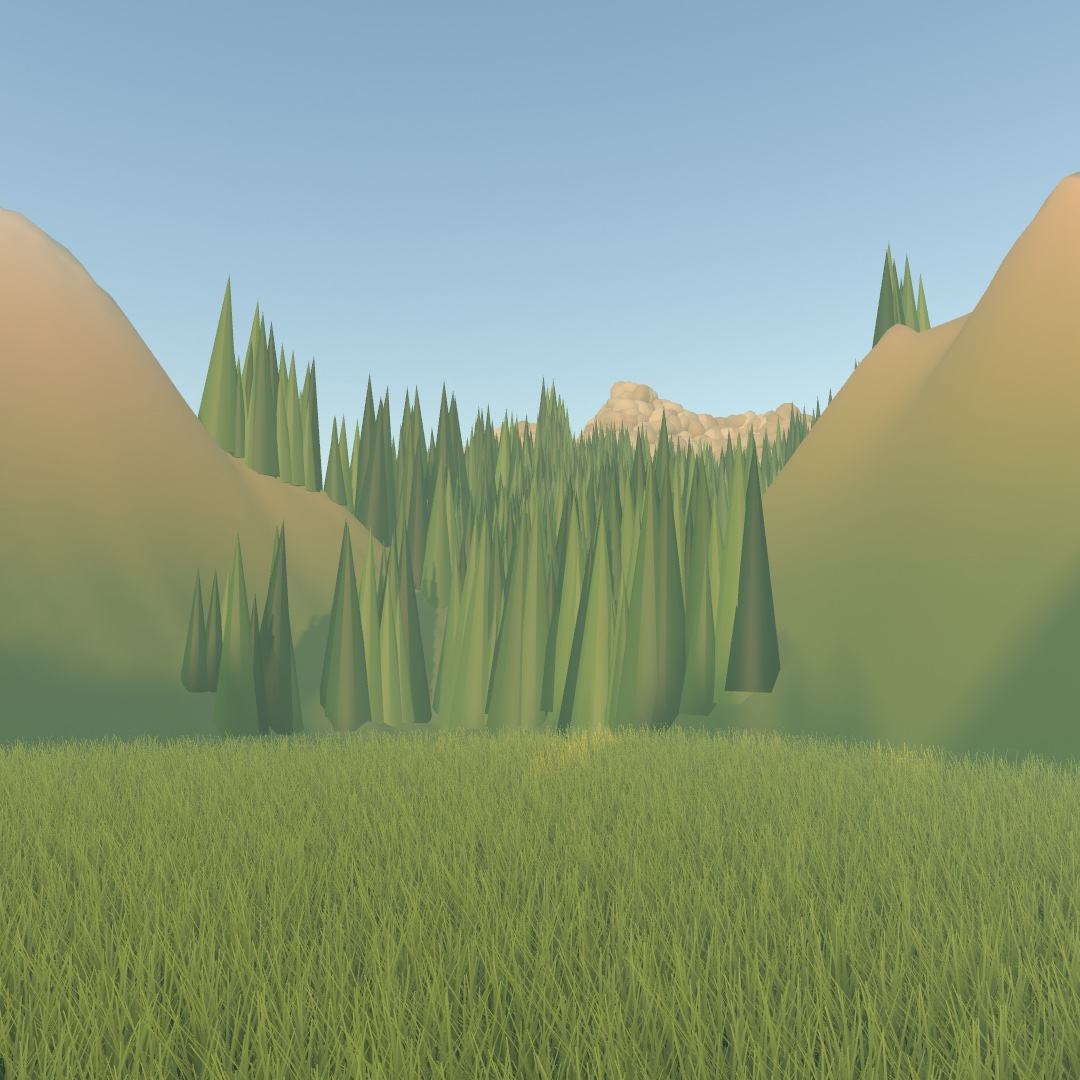
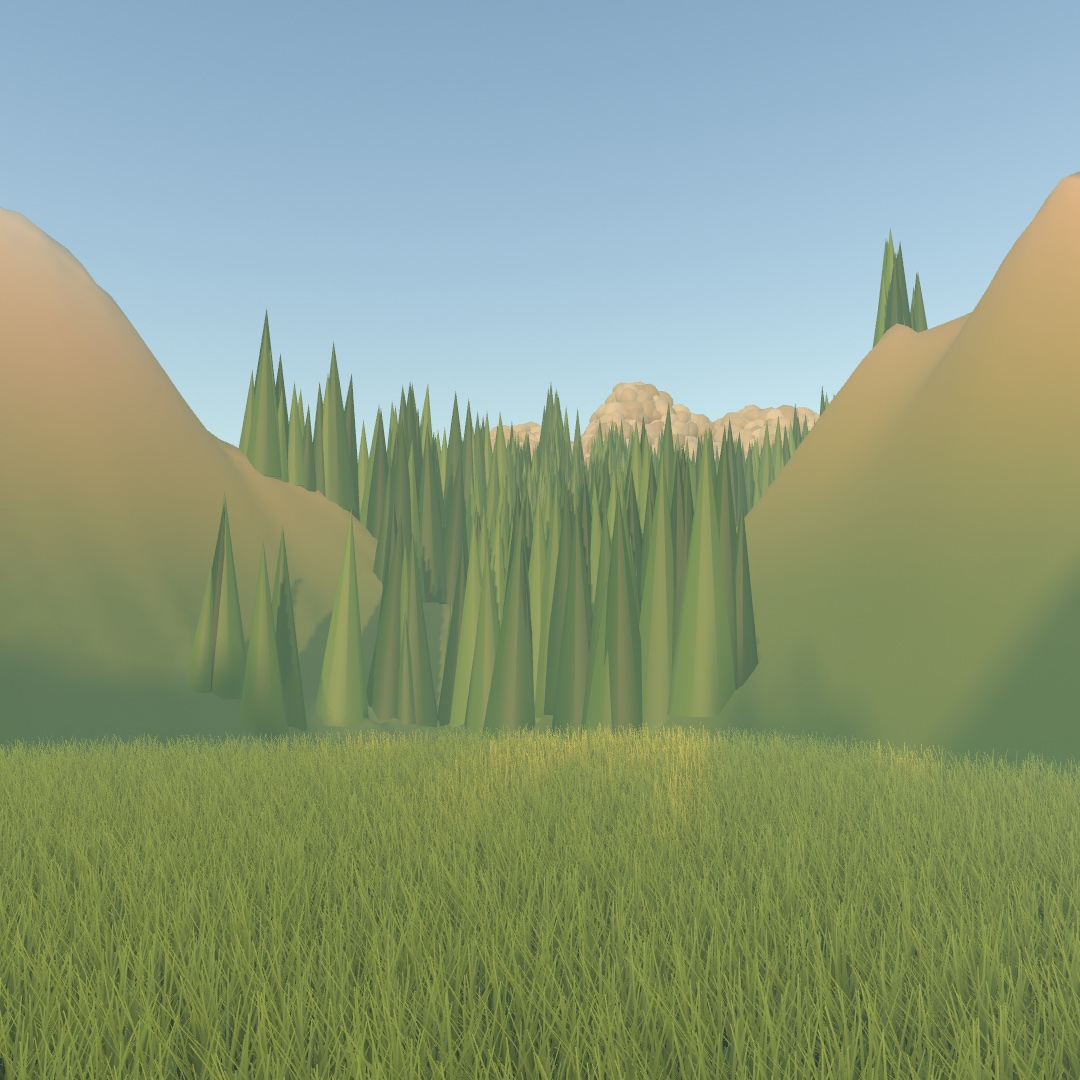
The Guide's Mac work for Chapters 25 to 28. The triangles-and-normals figure is rendered and stands in Chapter 25 where its note waited: one coarse icosphere three times on a gray floor, lit in coral, as its net of pale triangles, and lit again with a short yellow tube standing out of every corner a
Claude-Session: https://claude.ai/code/session_01WqLtBAH3GLezrn1E1FY2W7

Changed region(s): [[0.1528, 0.275, 0.7639, 0.7333], [0.7944, 0.2139, 0.8861, 0.3056]]

diff --git a/Guide/Figures/27-Landscapes/Valley.swift b/Guide/Figures/27-Landscapes/Valley.swift
@@ -137,7 +137,7 @@ final class Valley: Sketch {
         // Spots spread by area over the land's own surface, then kept or passed
         // over by what the ground does there. A spot's normal says how steep it is.
         // At this density the pines overlap anyway, so the cheap random scatter
-        // serves, where blue noise would cost several times as much.
+        // serves, where blue noise would take far longer.
         for spot in surfacePoints(on: land, count: 400_000, scatter: .random) {
             let p = spot.position
             // Nothing grows on the flood plain, and nothing grows on bare rock.

diff --git a/Guide/27-Landscapes.md b/Guide/27-Landscapes.md
@@ -238,7 +238,7 @@ final class Valley: Sketch {
 
 ```
 
-The second part reads the field back, which is the step that turns a landscape into a way of placing things. `findAClearing` walks a coarse grid and scores each spot by how much level ground surrounds it. Where the camera stands is something the terrain decides. `findARidge` then picks the highest ground in the middle distance, on the side away from the sun. So the shot faces lit land rather than a silhouette. `dressTheLand` scatters four hundred thousand spots over the land mesh with `surfacePoints`, by area, and passes `scatter: .random`. At this density the pines overlap into one canopy anyway, and the even spacing would cost several times as much. It keeps the spots that landed somewhere a pine or a boulder belongs, and a spot's normal says how steep the ground is there. Nothing grows on the flood plain or within 42 units of the clearing. Pines take the gentle mid slopes, and stones collect where it is steep.
+The second part reads the field back, which is the step that turns a landscape into a way of placing things. `findAClearing` walks a coarse grid and scores each spot by how much level ground surrounds it. Where the camera stands is something the terrain decides. `findARidge` then picks the highest ground in the middle distance, on the side away from the sun. So the shot faces lit land rather than a silhouette. `dressTheLand` scatters four hundred thousand spots over the land mesh with `surfacePoints`, by area, and passes `scatter: .random`. At this density the pines overlap into one canopy anyway, and the even spacing would take far longer to work out. It keeps the spots that landed somewhere a pine or a boulder belongs, and a spot's normal says how steep the ground is there. Nothing grows on the flood plain or within 42 units of the clearing. Pines take the gentle mid slopes, and stones collect where it is steep.
 
 The trees near the camera are kept in a list of their own, because they are the ones the wind has to move. They come from darts thrown in a disc around the clearing, since they have to stand near the camera rather than all over the land. They skip steep ground too. The square root of `random(1)` as the distance spreads the darts evenly over the disc. A plain `random` would crowd them at its center.
 
@@ -294,7 +294,7 @@ The trees near the camera are kept in a list of their own, because they are the 
         // Spots spread by area over the land's own surface, then kept or passed
         // over by what the ground does there. A spot's normal says how steep it is.
         // At this density the pines overlap anyway, so the cheap random scatter
-        // serves, where blue noise would cost several times as much.
+        // serves, where blue noise would take far longer.
         for spot in surfacePoints(on: land, count: 400_000, scatter: .random) {
             let p = spot.position
             // Nothing grows on the flood plain, and nothing grows on bare rock.

diff --git a/Guide/25-3DGently.md b/Guide/25-3DGently.md
@@ -160,7 +160,7 @@ drawMesh(ball)
 
 > **Swift note.** A semicolon lets two statements share a line. The listings use it for a pair that belongs together, like a stroke color and its weight.
 
-<!-- figure: TrianglesAndNormals, waiting on a render. The same coarse icosphere three times on one floor: the lit solid, its wireframe net, and the solid with a short tube standing out of every vertex along its normal. -->
+<img src="Images/25-3DGently/TrianglesAndNormals.jpg" alt="The same coarse sphere three times on a gray floor against a dark background: a lit coral solid with a many-sided outline, its net of pale blue-gray triangles drawn as see-through lines, and the coral solid again with a short yellow tube standing straight out of every corner" width="680">
 
 The middle ball is the same icosphere as the left one, drawn as its net. A wireframe takes no light, because there is no face to shade. It still takes the depth test, so a solid in front of it hides its lines. `wireframe(false)` goes back to solid, and `withState` scopes it like any other state. It is the look for a form still being worked out, and the finished sketch puts one on a plinth that way.
 
